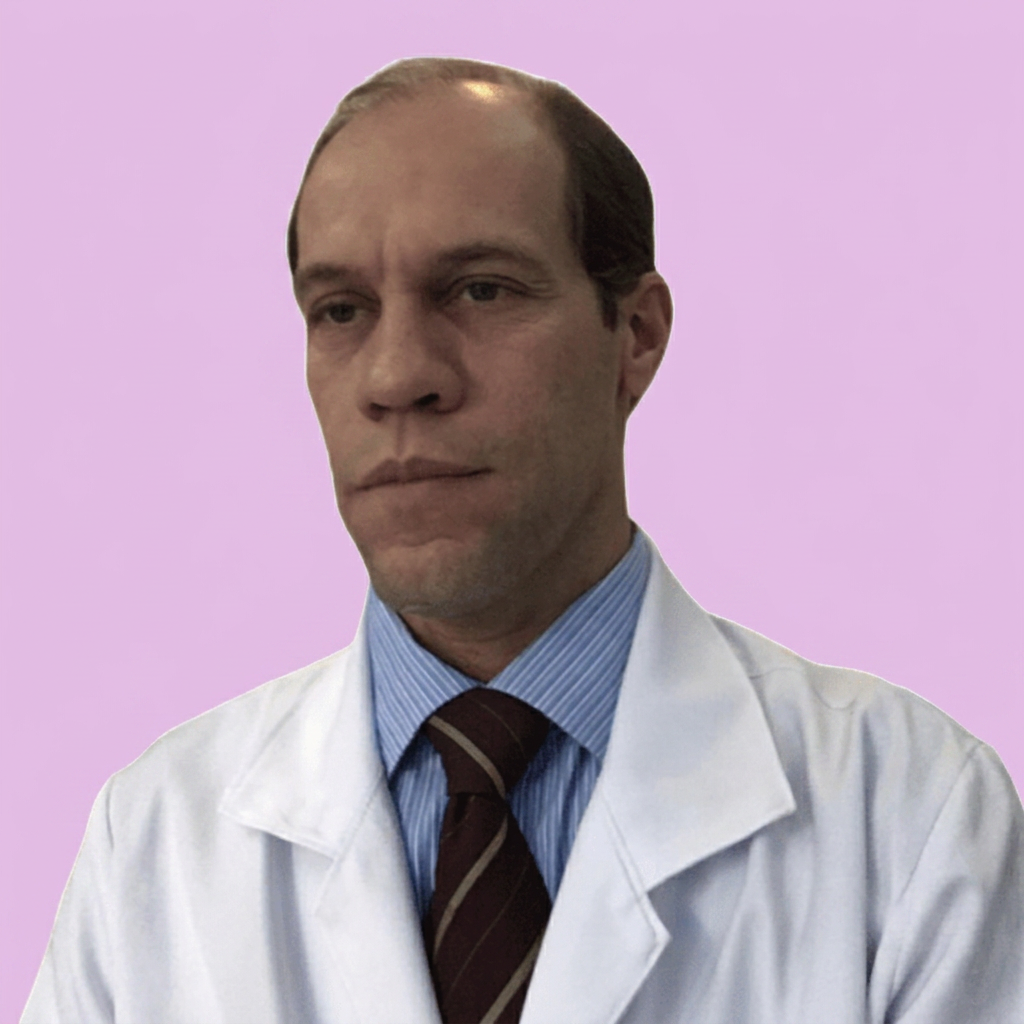
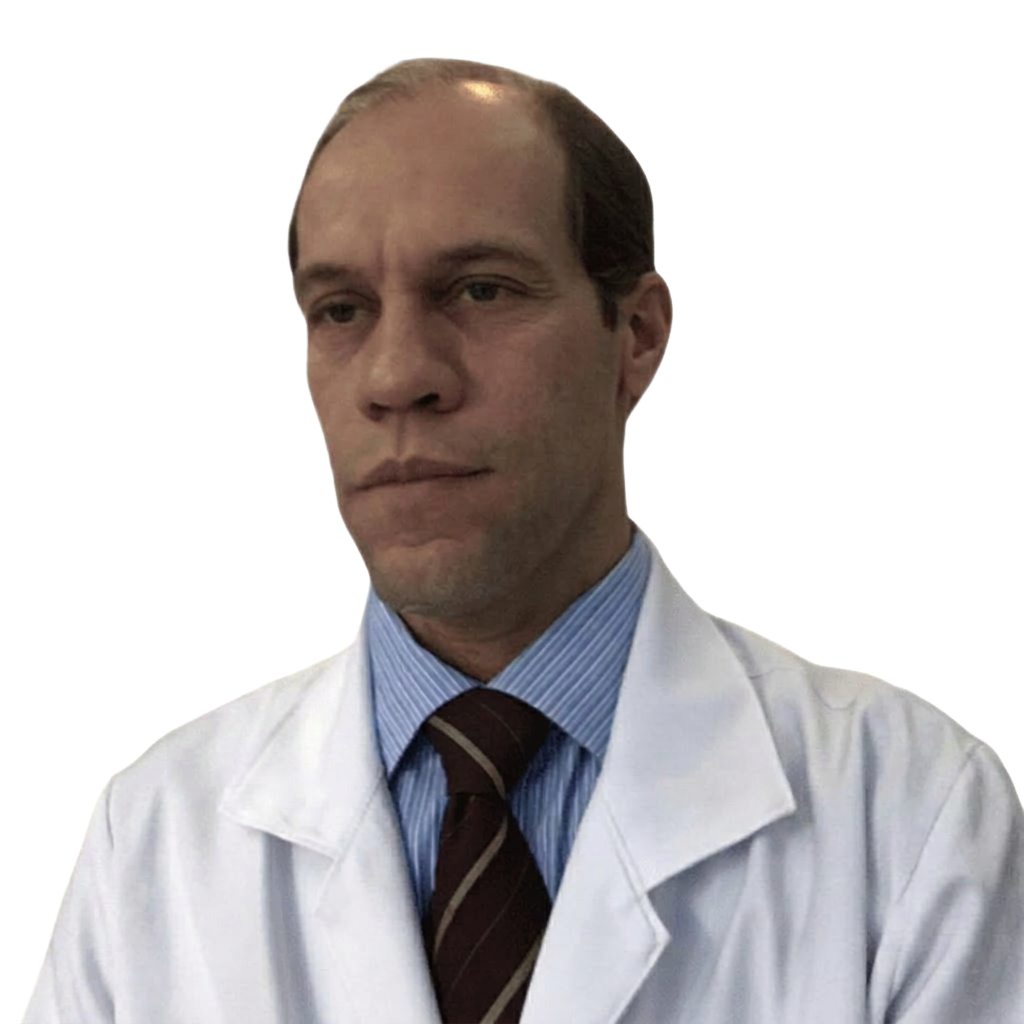
Changes

diff --git a/.lovable/plan.md b/.lovable/plan.md
@@ -1,36 +1,24 @@
-## Correção: aplicar os ajustes em `src/pages/IndexV2.tsx`
+## Uniformizar fundo das fotos do Corpo Clínico
 
-A rota `/` renderiza `IndexV2`, que tem `Navbar`, `Hero` e `Exams` definidos inline no próprio arquivo. As edições anteriores foram feitas em `Hero.tsx`/`Exams.tsx`/`Navbar.tsx` de `components/site`, que pertencem à página antiga (`/v1`). Por isso nada mudou no preview.
+### Diagnóstico
 
-### 1. Hero — título em Comfortaa (`IndexV2.tsx`, ~linhas 161-168)
+As fotos `src/assets/team/paulo.png` e `andre.png` foram salvas com um **fundo rosa opaco embutido** (~rgb 223,186,223). As demais (`morgana`, `barbara`, `darlei`, `carolina`, `maria-amelia`) são **transparentes**, então deixam aparecer a cor da moldura oval (`bg-wine-deep/10` em `IndexV2.tsx`), que é o rosa claro que o usuário quer manter.
 
-- Eyebrow `<p>` "Clínica de Ultrassom" → adicionar `font-comfortaa` (continua pequeno com tracking amplo).
-- `<h1>` "Dra. Morgana / Kummer" → trocar `font-serif ... font-light` por `font-comfortaa font-bold`, mantendo o `clamp` de tamanho. Remover o `italic` do span "Kummer" (não combina com Comfortaa) e manter `text-champagne`, podendo deixar em `font-light` para criar contraste interno.
-- Resultado: "Dra. Morgana Kummer" claramente maior e em destaque sobre o "Clínica de Ultrassom".
+### Ação
 
-### 2. Bloco de Exames — listagem centralizada e maior (`IndexV2.tsx`, ~linhas 319-339)
+Reprocessar apenas os dois PNGs problemáticos, removendo o fundo rosa e salvando como transparente — sem tocar nas demais fotos nem no componente.
 
-Dentro do `<div className="p-6 ...">` de cada card:
+Script (Python/Pillow):
+- Para cada PNG (`paulo.png`, `andre.png`):
+  - Abrir em RGBA.
+  - Fazer flood-fill a partir dos 4 cantos com tolerância suficiente para apagar todo o fundo rosa contíguo (~±35 por canal), tornando alpha=0.
+  - Suavizar borda do alpha (leve blur de 1px) para evitar serrilhado.
+  - Salvar sobrescrevendo o arquivo original.
 
-- `h3` da categoria e `p` da descrição → adicionar `text-center`.
-- `<ul>` → adicionar `text-center` e aumentar espaçamento para `space-y-2.5`.
-- Cada `<Link>` dos exames:
-  - Trocar `text-xs` por `text-sm` (ou `text-[15px]`) e `leading-relaxed`.
-  - Trocar `flex items-center gap-2` por `inline-flex items-center justify-center gap-2.5` e envolver o `<li>` em `flex justify-center` para centralizar.
-
-### 3. Sublinhar exames com página própria (`IndexV2.tsx`, mesmo loop)
-
-Critério: exame "tem página própria" quando `exam.hero` está definido em `src/data/exams.ts` (conteúdo migrado completo).
-
-- Calcular `const hasOwnPage = !!ex.hero;` dentro do `items.map`.
-- Aplicar sublinhado permanente ao `<span>` do título quando `hasOwnPage`: `underline underline-offset-4 decoration-champagne/70`. Quando `false`, manter o comportamento atual (sublinhado só no hover).
+Após o processamento, as duas fotos ficam transparentes e a moldura oval do componente passa a determinar a cor de fundo, igualando o visual ao das outras.
 
 ### O que NÃO muda
 
-- Logo da Navbar (continua como imagem).
-- Demais blocos da página.
-- Estrutura/rotas dos exames.
-
-### Observação
-
-Os componentes em `src/components/site/Hero.tsx`, `Exams.tsx` e `Navbar.tsx` (página `/v1`) ficam como estão após a edição anterior — não são revertidos, apenas não afetam a home atual.
+- Código da seção Corpo Clínico em `IndexV2.tsx`.
+- Demais fotos da equipe.
+- Cor/forma da moldura oval.
